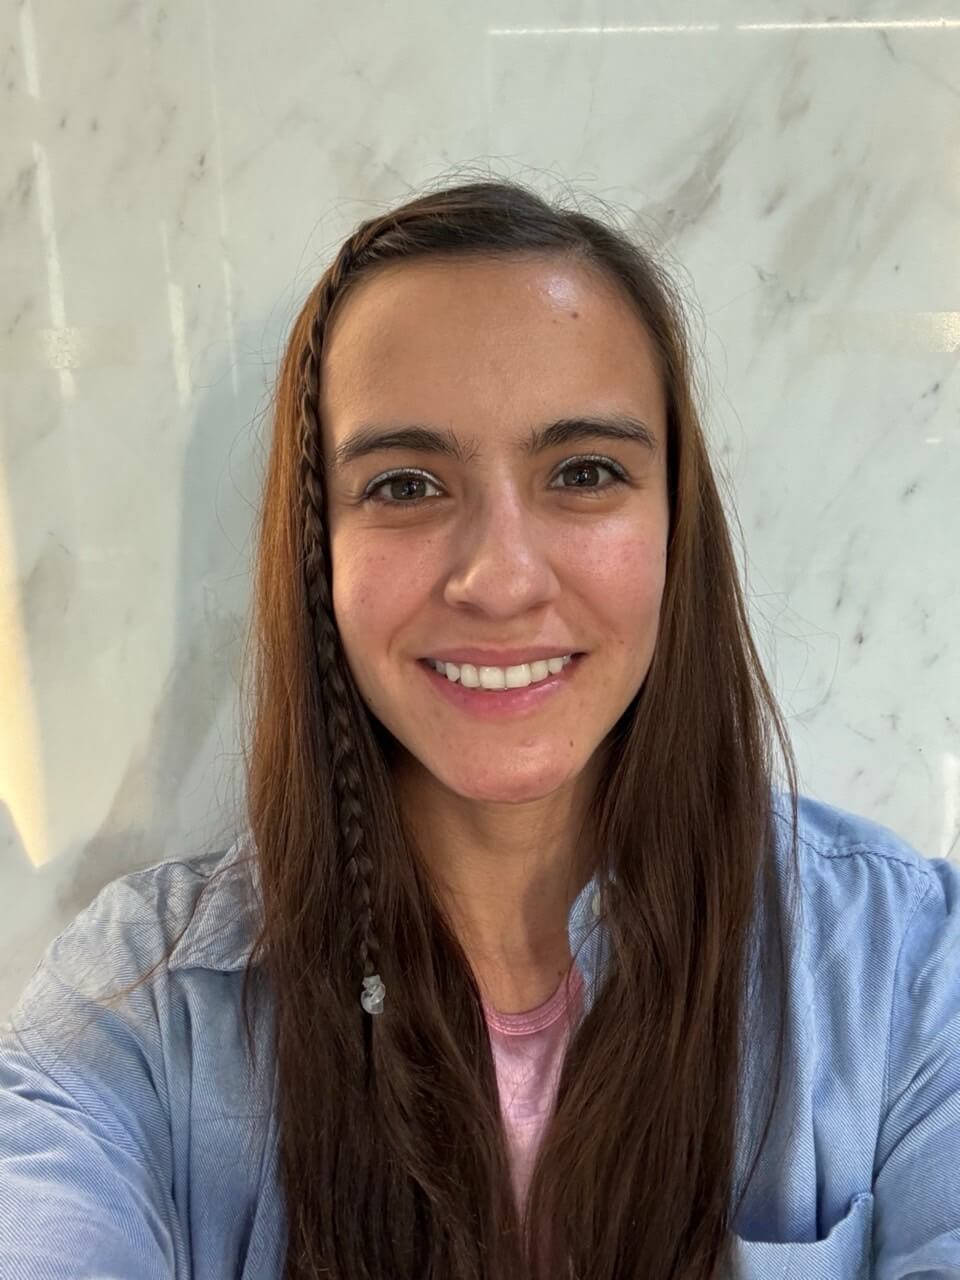
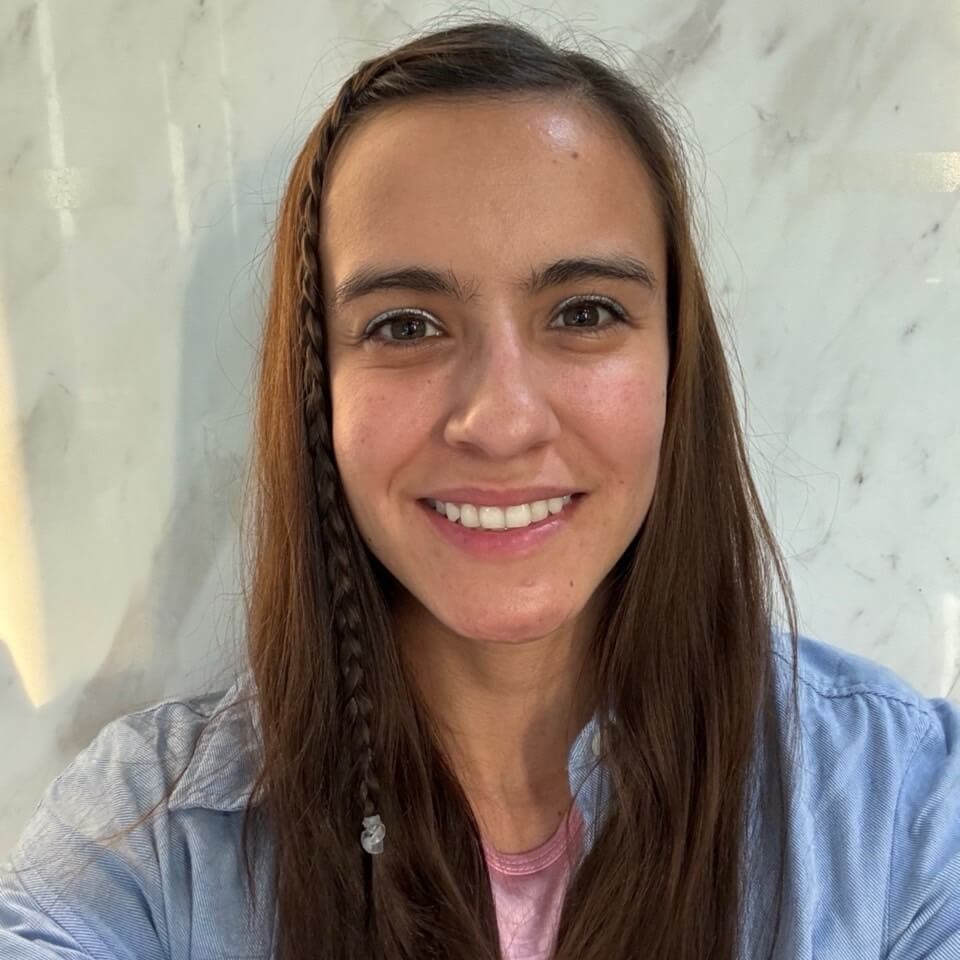
Imagenes de perfil modificadas

diff --git a/Angular/SkillSwap/src/app/pages/profile/user-superior/user-superior.component.html b/Angular/SkillSwap/src/app/pages/profile/user-superior/user-superior.component.html
@@ -38,6 +38,6 @@
     </div>
   </div>
   <div class="acciones-usuario">
-    <app-user-botones></app-user-botones>
+    <app-user-botones [miUsuario]="miUsuario"></app-user-botones>
   </div>
 </div>
